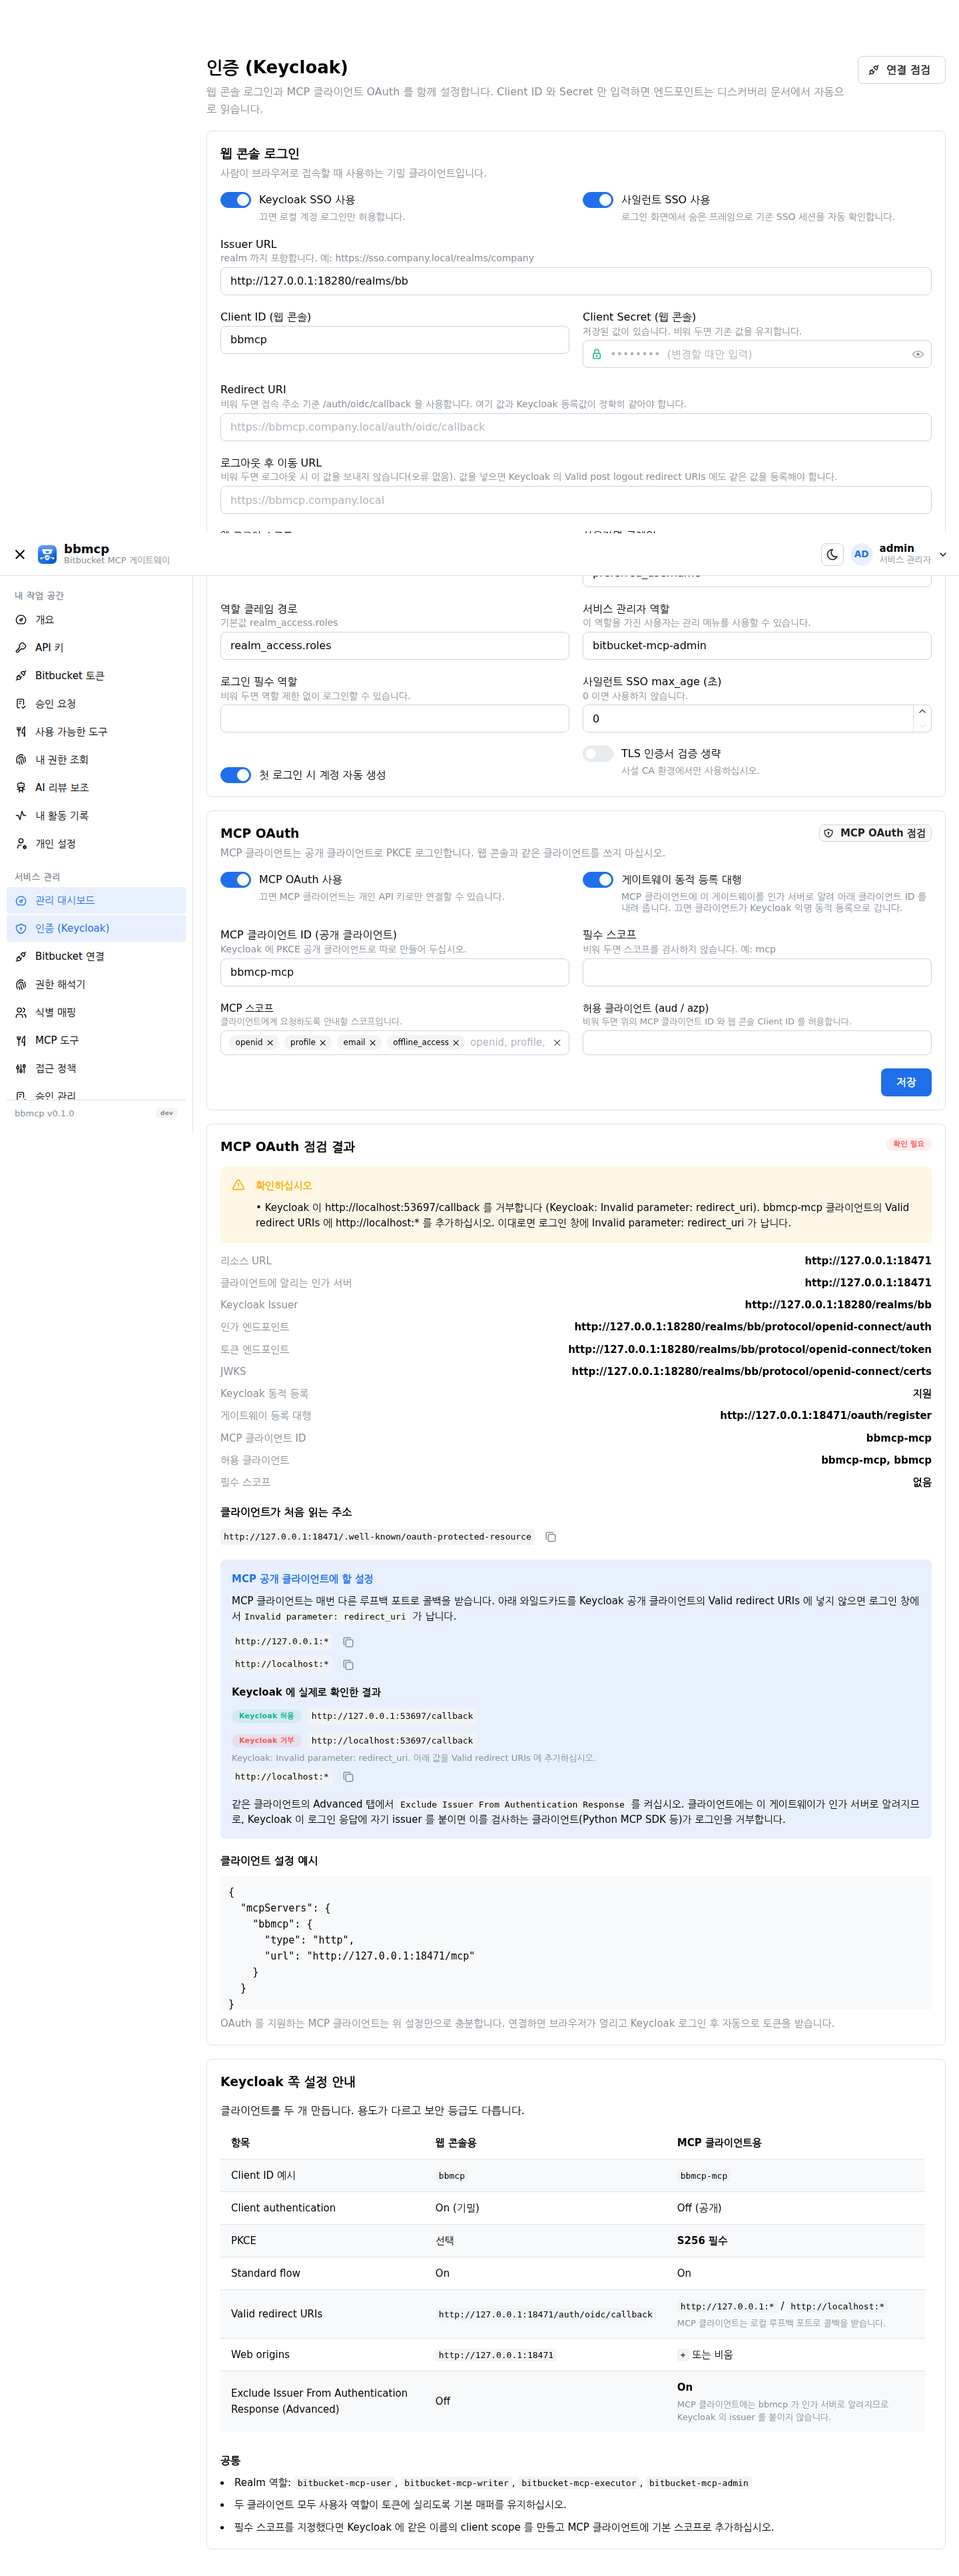
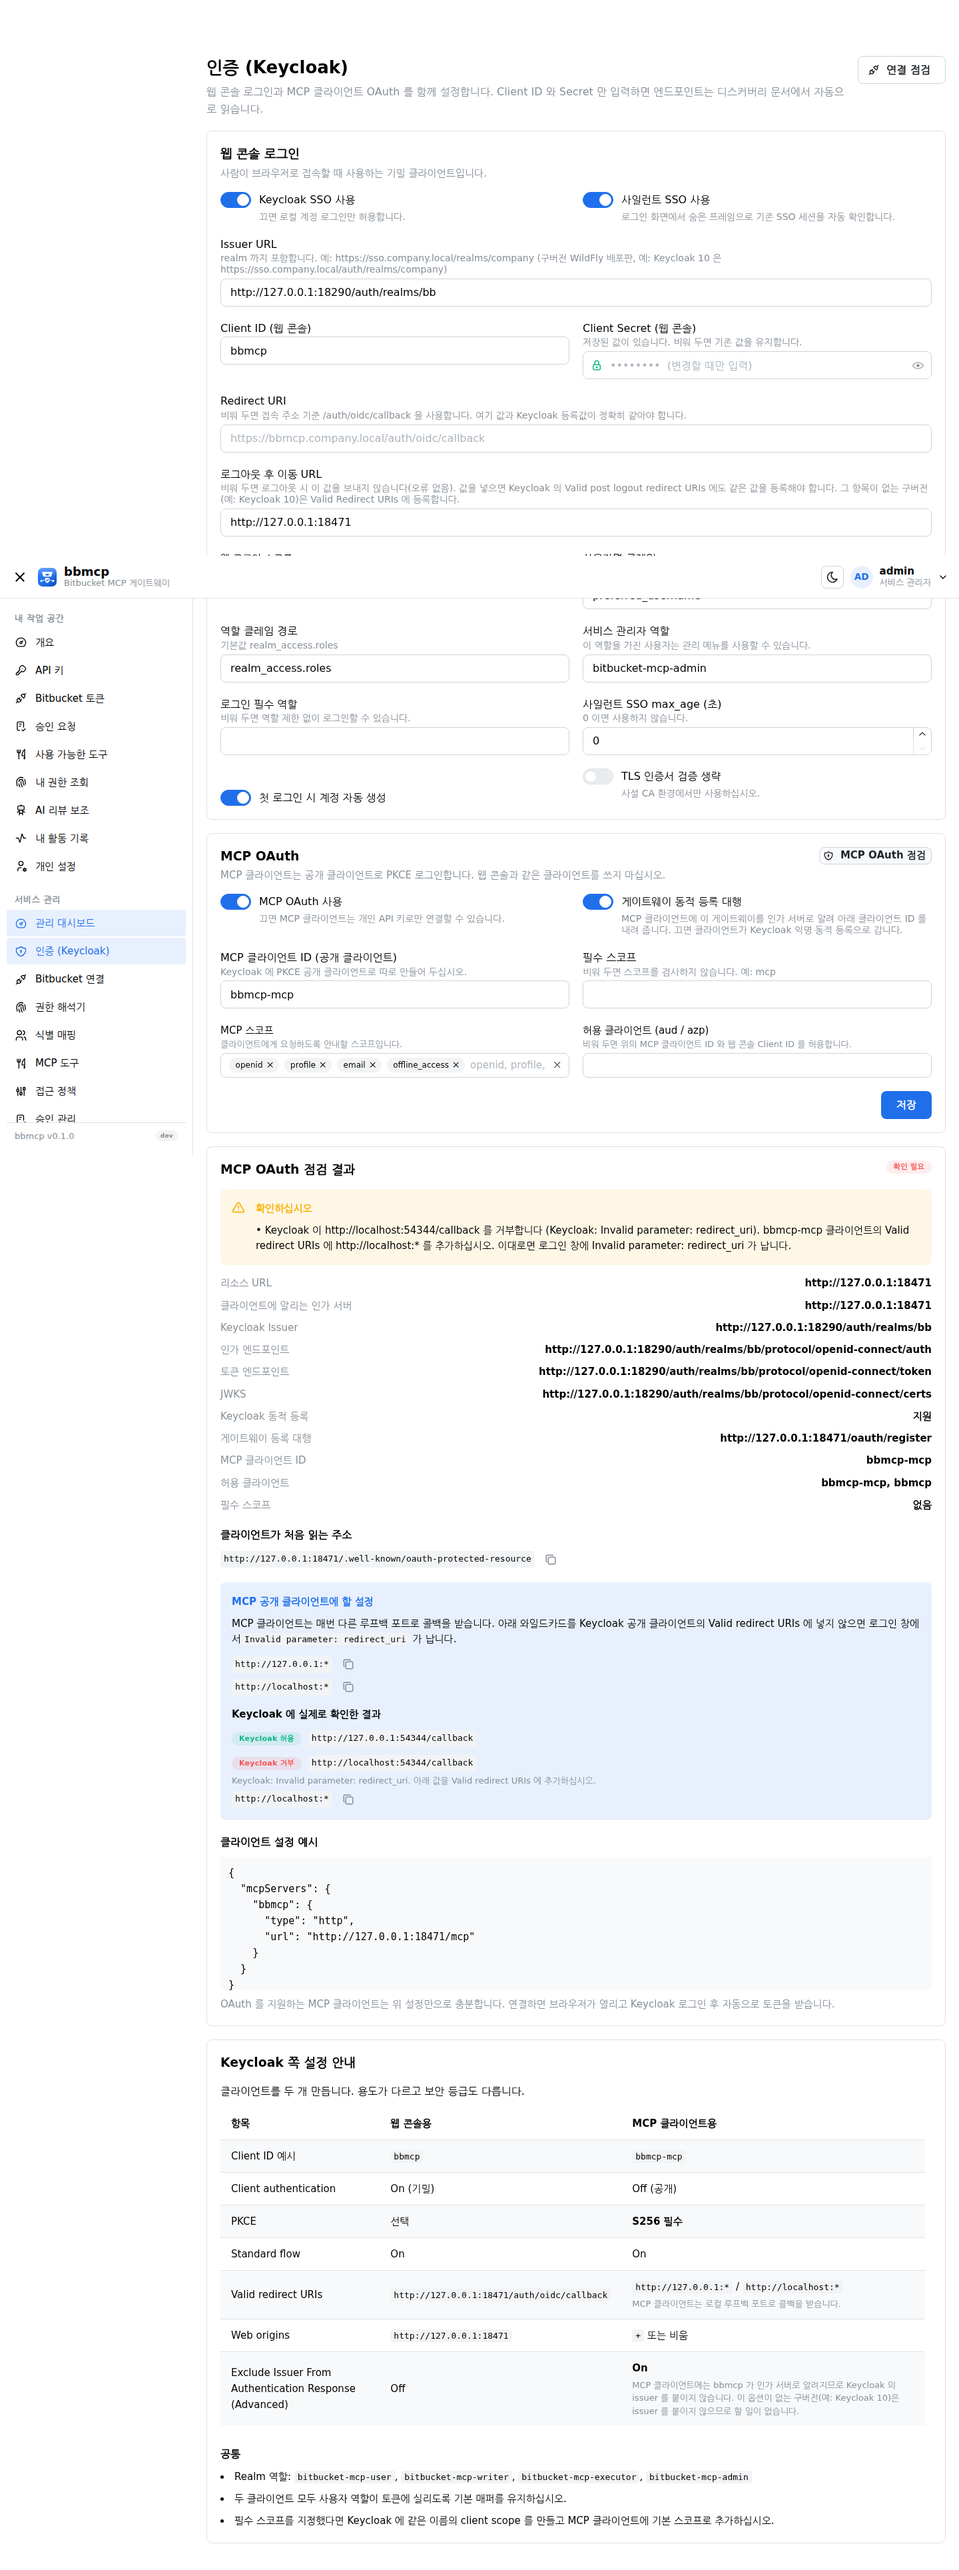
feat: Keycloak 10 호환
Keycloak 10.0.2(WildFly 배포판)를 실제로 띄워 웹 콘솔 로그인·사일런트
SSO·로그아웃과 MCP OAuth(실제 Claude Code, MCP TS SDK, Python MCP SDK)를
돌려 보았습니다. 핵심 흐름은 이미 동작했고, Keycloak 10 에서 어긋나는 곳만
고쳤습니다.

- 게이트웨이가 광고하는 인가 서버 메타데이터의
  token_endpoint_auth_methods_supported 에 "none" 을 넣습니다. bbmcp 가
  내려 주는 MCP 클라이언트는 공개 클라이언트인데, Keycloak 10 은 공개
  클라이언트를 받으면서도 목록에 "none" 을 적지 않아, 이 목록에서 방식을
  고르는 클라이언트는 받은 적 없는 비밀값이 필요한 방식을 고르게 됩니다.
  등록 대행을 끄고 Keycloak 을 그대로 광고할 때는 바꾸지 않습니다.
- Keycloak 10 에 없는 설정을 하라고 안내하지 않습니다. "Exclude Issuer From
  Authentication Response" 안내는 Keycloak 이 실제로 iss 를 붙이는 것이
  확인될 때만 보입니다(Keycloak 10 은 붙이지 않습니다). 로그아웃 후 이동
  주소는 "Valid post logout redirect URIs" 가 없는 구버전에서 Valid Redirect
  URIs 로 검사된다고 콘솔·점검 경고·문서에 적었습니다.
- Issuer 입력 안내와 관리자 가이드에 구버전의 /auth 경로, 구버전 관리
  콘솔의 항목 이름(Access Type, Advanced Settings 의 PKCE)을 적었습니다.

Keycloak 10 모양의 가짜 서버(/auth 경로, OIDC 디스커버리만, "none" 없음,
iss 없음)로 메타데이터 미러와 MCP 점검, 등록을 시험합니다. "none" 추가를
빼면 시험이 실패합니다. 같은 검증을 Keycloak 26.4 에도 다시 돌려 둘 다
통과했습니다.

diff --git a/docs/guide-admin.html b/docs/guide-admin.html
@@ -167,6 +167,19 @@ curl -fsS http://localhost:8080/readyz   # 구성 전에는 503 이 정상입니
 
   <h2 id="keycloak">3. Keycloak 연동</h2>
 
+  <div class="note">
+    <p>
+      <strong>지원 버전.</strong> Keycloak 10 이상을 지원하며, 10.0.2 와 26.4 에서 웹 콘솔 로그인·사일런트 SSO·로그아웃과
+      MCP OAuth(Claude Code, MCP TS SDK, Python MCP SDK)를 실제 로그인으로 검증했습니다. 구버전(WildFly 배포판, 예:
+      Keycloak 10)은 주소에 <code>/auth</code> 가 붙으므로 Issuer 를 <code>https://sso.company.local/auth/realms/company</code>
+      처럼 입력하십시오. 구버전 관리 콘솔은 항목 이름이 다릅니다: <em>Client authentication</em> 은 <em>Access Type</em>
+      (<code>confidential</code> / MCP 용은 <code>public</code>), PKCE 는 <em>Advanced Settings</em> 의
+      <em>Proof Key for Code Exchange Code Challenge Method</em> 입니다. <em>Valid post logout redirect URIs</em> 와
+      <em>Exclude Issuer From Authentication Response</em> 는 없습니다. 로그아웃 후 이동 주소는 <em>Valid Redirect URIs</em>
+      로 검사되고, issuer 는 원래 붙지 않습니다.
+    </p>
+  </div>
+
   <h3 id="keycloak-client">3.1 클라이언트 생성</h3>
   <p>Keycloak 관리 콘솔에서 아래와 같이 클라이언트를 만듭니다.</p>
   <div class="table-scroll">
@@ -179,7 +192,7 @@ curl -fsS http://localhost:8080/readyz   # 구성 전에는 503 이 정상입니
         <tr><td>Standard flow</td><td>Enabled</td></tr>
         <tr><td>Valid redirect URIs</td><td><code>https://&lt;bbmcp 주소&gt;/auth/oidc/callback</code></td></tr>
         <tr><td>Web origins</td><td><code>https://&lt;bbmcp 주소&gt;</code></td></tr>
-        <tr><td>Valid post logout redirect URIs</td><td><code>https://&lt;bbmcp 주소&gt;/*</code></td></tr>
+        <tr><td>Valid post logout redirect URIs<br><small>(구버전: Valid redirect URIs 에 함께 등록)</small></td><td><code>https://&lt;bbmcp 주소&gt;/*</code></td></tr>
       </tbody>
     </table>
   </div>
@@ -236,7 +249,7 @@ curl -fsS http://localhost:8080/readyz   # 구성 전에는 503 이 정상입니
             <td><code>https://&lt;bbmcp&gt;/auth/oidc/callback</code></td>
             <td><code>http://127.0.0.1:*</code>, <code>http://localhost:*</code></td></tr>
         <tr><td>Web origins</td><td><code>https://&lt;bbmcp&gt;</code></td><td><code>+</code> 또는 비움</td></tr>
-        <tr><td>Exclude Issuer From Authentication Response<br><small>(Advanced 탭)</small></td>
+        <tr><td>Exclude Issuer From Authentication Response<br><small>(Advanced 탭, 구버전에는 없음 — 설정 불필요)</small></td>
             <td>Off (기본값)</td><td><strong>On</strong></td></tr>
       </tbody>
     </table>
@@ -342,7 +355,7 @@ curl -fsS http://localhost:8080/readyz   # 구성 전에는 503 이 정상입니
         <tr>
           <td>로그아웃 시 <code>Invalid parameter</code></td>
           <td>등록되지 않은 <code>post_logout_redirect_uri</code> 전송</td>
-          <td>bbmcp 는 설정했을 때만 보냅니다. 값을 넣었다면 Keycloak 의 <em>Valid post logout redirect URIs</em> 에도 등록하십시오</td>
+          <td>bbmcp 는 설정했을 때만 보냅니다. 값을 넣었다면 Keycloak 의 <em>Valid post logout redirect URIs</em>(구버전은 <em>Valid redirect URIs</em>) 에도 등록하십시오</td>
         </tr>
         <tr>
           <td>MCP 클라이언트 로그인 창에서 <code>Invalid parameter: redirect_uri</code>, 또는 연결 시 <code>invalid_redirect_uri</code></td>

diff --git a/web/src/pages/admin/Auth.tsx b/web/src/pages/admin/Auth.tsx
@@ -35,7 +35,8 @@ const loginFields: Field<KeycloakSettings>[] = [
     kind: 'text',
     key: 'issuer',
     label: 'Issuer URL',
-    description: 'realm 까지 포함합니다. 예: https://sso.company.local/realms/company',
+    description:
+      'realm 까지 포함합니다. 예: https://sso.company.local/realms/company (구버전 WildFly 배포판, 예: Keycloak 10 은 https://sso.company.local/auth/realms/company)',
     placeholder: 'https://sso.company.local/realms/company',
     span: 12,
   },
@@ -54,7 +55,7 @@ const loginFields: Field<KeycloakSettings>[] = [
     key: 'postLogoutUrl',
     label: '로그아웃 후 이동 URL',
     description:
-      '비워 두면 로그아웃 시 이 값을 보내지 않습니다(오류 없음). 값을 넣으면 Keycloak 의 Valid post logout redirect URIs 에도 같은 값을 등록해야 합니다.',
+      '비워 두면 로그아웃 시 이 값을 보내지 않습니다(오류 없음). 값을 넣으면 Keycloak 의 Valid post logout redirect URIs 에도 같은 값을 등록해야 합니다. 그 항목이 없는 구버전(예: Keycloak 10)은 Valid Redirect URIs 에 등록합니다.',
     placeholder: 'https://bbmcp.company.local',
     span: 12,
   },
@@ -263,7 +264,8 @@ export function AdminAuthPage() {
                 <Table.Td>
                   <strong>On</strong>
                   <Text size="xs" c="dimmed" mt={4}>
-                    MCP 클라이언트에는 bbmcp 가 인가 서버로 알려지므로 Keycloak 의 issuer 를 붙이지 않습니다.
+                    MCP 클라이언트에는 bbmcp 가 인가 서버로 알려지므로 Keycloak 의 issuer 를 붙이지 않습니다. 이
+                    옵션이 없는 구버전(예: Keycloak 10)은 issuer 를 붙이지 않으므로 할 일이 없습니다.
                   </Text>
                 </Table.Td>
               </Table.Tr>
@@ -353,7 +355,10 @@ function KeycloakReport({ report }: { report: KeycloakTestReport }) {
           </div>
           <div>
             <Text size="sm" fw={600} mb={4}>
-              Valid post logout redirect URIs
+              Valid post logout redirect URIs{' '}
+              <Text span size="xs" c="dimmed" fw={400}>
+                (이 항목이 없는 구버전 Keycloak 은 Valid Redirect URIs)
+              </Text>
             </Text>
             {report.register.validPostLogoutRedirectUris.length > 0 ? (
               report.register.validPostLogoutRedirectUris.map((uri) => <CopyField key={uri} value={uri} />)
@@ -445,7 +450,7 @@ function OAuthReport({ report }: { report: MCPOAuthReport }) {
               ))}
             </Stack>
           ) : null}
-          {report.gatewayRegistrationEndpoint ? (
+          {report.gatewayRegistrationEndpoint && report.redirectChecks?.some((check) => check.sendsIssuer) ? (
             <Text size="sm" mt="md">
               같은 클라이언트의 Advanced 탭에서 <Code>Exclude Issuer From Authentication Response</Code> 를
               켜십시오. 클라이언트에는 이 게이트웨이가 인가 서버로 알려지므로, Keycloak 이 로그인 응답에

diff --git a/internal/api/oauth_test.go b/internal/api/oauth_test.go
@@ -724,3 +724,103 @@ func TestKeycloakMessageReadsErrorPage(t *testing.T) {
 		t.Errorf("keycloakMessage = %q", got)
 	}
 }
+
+// fakeKeycloak10 answers the way Keycloak 10 (WildFly) does: the realm lives
+// under /auth, only the OpenID Connect discovery path is served,
+// token_endpoint_auth_methods_supported leaves out "none", and the
+// authorization response carries no iss.
+func fakeKeycloak10(t *testing.T) (*httptest.Server, string) {
+	t.Helper()
+	var issuer string
+	mux := http.NewServeMux()
+	mux.HandleFunc("/auth/realms/bb/.well-known/openid-configuration", func(w http.ResponseWriter, r *http.Request) {
+		w.Header().Set("Content-Type", "application/json")
+		_ = json.NewEncoder(w).Encode(map[string]any{
+			"issuer":                                issuer,
+			"authorization_endpoint":                issuer + "/protocol/openid-connect/auth",
+			"token_endpoint":                        issuer + "/protocol/openid-connect/token",
+			"jwks_uri":                              issuer + "/protocol/openid-connect/certs",
+			"registration_endpoint":                 issuer + "/clients-registrations/openid-connect",
+			"end_session_endpoint":                  issuer + "/protocol/openid-connect/logout",
+			"code_challenge_methods_supported":      []string{"plain", "S256"},
+			"response_types_supported":              []string{"code", "none", "id_token"},
+			"token_endpoint_auth_methods_supported": []string{"private_key_jwt", "client_secret_basic", "client_secret_post", "tls_client_auth", "client_secret_jwt"},
+		})
+	})
+	mux.HandleFunc("/auth/realms/bb/protocol/openid-connect/auth", func(w http.ResponseWriter, r *http.Request) {
+		q := r.URL.Query()
+		http.Redirect(w, r, q.Get("redirect_uri")+"?error=login_required&state="+url.QueryEscape(q.Get("state")), http.StatusFound)
+	})
+	srv := httptest.NewServer(mux)
+	t.Cleanup(srv.Close)
+	issuer = srv.URL + "/auth/realms/bb"
+	return srv, issuer
+}
+
+func TestKeycloak10MetadataIsMirroredForThePublicClient(t *testing.T) {
+	for _, proxy := range []bool{true, false} {
+		srv, store, ctx := newOAuthServer(t)
+		_, issuer := fakeKeycloak10(t)
+		configureKeycloak(t, store, ctx, func(kc *settings.Keycloak) {
+			kc.Issuer = issuer
+			kc.MCPAllowDCR = proxy
+		})
+
+		rec := httptest.NewRecorder()
+		srv.authorizationServerMetadata(rec,
+			httptest.NewRequest(http.MethodGet, "https://bbmcp.local/.well-known/oauth-authorization-server", nil))
+		if rec.Code != http.StatusOK {
+			t.Fatalf("proxy=%t: 상태 %d: %s", proxy, rec.Code, rec.Body.String())
+		}
+		body := decode(t, rec)
+		if body["authorization_endpoint"] != issuer+"/protocol/openid-connect/auth" {
+			t.Errorf("proxy=%t: authorization_endpoint = %v", proxy, body["authorization_endpoint"])
+		}
+		methods := []string{}
+		for _, m := range body["token_endpoint_auth_methods_supported"].([]any) {
+			methods = append(methods, m.(string))
+		}
+		if proxy {
+			// The gateway hands out a public client, so "none" has to be listed,
+			// and Keycloak's own methods are kept.
+			if !containsFold(methods, "none") || !containsFold(methods, "client_secret_basic") {
+				t.Errorf("token_endpoint_auth_methods_supported = %v", methods)
+			}
+			if body["issuer"] != "https://bbmcp.local" {
+				t.Errorf("issuer = %v", body["issuer"])
+			}
+		} else if containsFold(methods, "none") || body["issuer"] != issuer {
+			t.Errorf("Keycloak 을 그대로 광고할 때는 바꾸지 않아야 합니다: issuer=%v methods=%v", body["issuer"], methods)
+		}
+	}
+}
+
+func TestMCPOAuthDiagnosticOnKeycloak10(t *testing.T) {
+	srv, store, ctx := newOAuthServer(t)
+	_, issuer := fakeKeycloak10(t)
+	configureKeycloak(t, store, ctx, func(kc *settings.Keycloak) { kc.Issuer = issuer })
+
+	rec := httptest.NewRecorder()
+	srv.testMCPOAuth(rec, httptest.NewRequest(http.MethodPost, "https://bbmcp.local/api/admin/test/mcp-oauth", nil))
+	body := decode(t, rec)
+	if body["ok"] != true {
+		t.Fatalf("ok = %v (%s)", body["ok"], rec.Body.String())
+	}
+	for _, c := range body["redirectChecks"].([]any) {
+		check := c.(map[string]any)
+		if check["accepted"] != true || check["sendsIssuer"] == true {
+			t.Errorf("redirectCheck = %v", check)
+		}
+	}
+	// Keycloak 10 has no "Exclude Issuer" option and needs none.
+	if warnings, _ := body["warnings"].([]any); len(warnings) != 0 {
+		t.Errorf("warnings = %v", warnings)
+	}
+
+	rec = httptest.NewRecorder()
+	srv.registerClient(rec, httptest.NewRequest(http.MethodPost, "https://bbmcp.local/oauth/register",
+		jsonBody(`{"redirect_uris":["http://localhost:58023/callback"]}`)))
+	if rec.Code != http.StatusCreated {
+		t.Fatalf("등록 상태 %d (%s)", rec.Code, rec.Body.String())
+	}
+}

diff --git a/internal/api/oauth.go b/internal/api/oauth.go
@@ -161,6 +161,11 @@ func (s *Server) authorizationServerMetadata(w http.ResponseWriter, r *http.Requ
 		// A client that can use a metadata document URL as its client_id would
 		// skip registration and reach Keycloak as a client this gateway rejects.
 		delete(out, "client_id_metadata_document_supported")
+		// The client handed out here is public. Older Keycloak (10, for one)
+		// accepts public clients at its token endpoint but does not list
+		// "none", and a client choosing from this list would then pick a
+		// method that needs a secret it was never given.
+		out["token_endpoint_auth_methods_supported"] = withNone(body["token_endpoint_auth_methods_supported"])
 	}
 	httpx.JSON(w, http.StatusOK, out)
 }
@@ -222,6 +227,23 @@ func (s *Server) fetchASMetadata(ctx context.Context, kc settings.Keycloak) (map
 		lastErr = errors.New("알 수 없는 오류")
 	}
 	return nil, fmt.Errorf("Keycloak 메타데이터를 가져올 수 없습니다: %w", lastErr)
+}
+
+// withNone returns a token_endpoint_auth_methods_supported list that
+// includes "none", keeping the methods Keycloak listed.
+func withNone(listed any) []string {
+	out := []string{}
+	if items, ok := listed.([]any); ok {
+		for _, item := range items {
+			if method, ok := item.(string); ok {
+				out = append(out, method)
+			}
+		}
+	}
+	if !containsFold(out, "none") {
+		out = append(out, "none")
+	}
+	return out
 }
 
 // keycloakHTTPClient is the client bbmcp uses for its own calls to Keycloak.

diff --git a/internal/api/admin.go b/internal/api/admin.go
@@ -708,7 +708,8 @@ func (s *Server) testTarget(w http.ResponseWriter, r *http.Request) {
 		}
 		if kc.PostLogoutURL == "" {
 			warnings = append(warnings, "로그아웃 후 이동 URL 이 비어 있어 로그아웃 시 Keycloak 화면에 머무릅니다. "+
-				"앱으로 돌아오게 하려면 값을 넣고 Keycloak 의 Valid post logout redirect URIs 에도 같은 값을 등록하십시오.")
+				"앱으로 돌아오게 하려면 값을 넣고 Keycloak 의 Valid post logout redirect URIs 에도 같은 값을 등록하십시오. "+
+				"이 항목이 없는 구버전 Keycloak(예: 10)은 Valid Redirect URIs 로 검사하므로 그쪽에 등록하십시오.")
 		}
 
 		cfg, _, err := s.Auth.OIDC.OAuth2Config(ctx, redirect)

diff --git a/README.md b/README.md
@@ -37,7 +37,7 @@ AI 에게 사용자가 볼 수 없는 저장소까지 노출합니다. bbmcp 는
 
 | 영역 | 내용 |
 |---|---|
-| 인증 | Keycloak OIDC, 사일런트 SSO(`prompt=none`), 로컬 계정 비상 로그인 |
+| 인증 | Keycloak OIDC (10 이상, 10.0.2·26.4 에서 실제 로그인으로 검증), 사일런트 SSO(`prompt=none`), 로컬 계정 비상 로그인 |
 | MCP OAuth | RFC 9728 보호 리소스 메타데이터, RFC 8414 인가 서버 메타데이터 미러, RFC 7591 등록 대행, aud/azp·스코프 검증 |
 | 식별 | 최초 1회 `preferred_username` 정확 일치 → 이후 `Keycloak sub ↔ Bitbucket user.id` 고정 |
 | 권한 | Bitbucket 권한 플러그인(권장) 또는 REST 폴백, fail-closed 기본 |
@@ -105,7 +105,7 @@ OAuth 를 지원하는 MCP 클라이언트는 URL 하나면 됩니다. 연결하
 
 Keycloak 에는 **공개 클라이언트**(기본값 `bbmcp-mcp`)를 하나 더 만들고 PKCE S256 과 루프백 리다이렉트
 `http://127.0.0.1:*`, `http://localhost:*` 를 **둘 다** 허용한 뒤 (Claude Code 는 `localhost` 로 콜백을 받습니다), Advanced 탭의 **Exclude Issuer From Authentication Response** 를
-켜십시오. bbmcp 는 클라이언트에 자기 자신을 인가 서버로 알리고 `/oauth/register` 로 그 클라이언트 ID 를
+켜십시오. 이 옵션이 없는 구버전(예: Keycloak 10)은 로그인 응답에 issuer 를 붙이지 않으므로 할 일이 없습니다. bbmcp 는 클라이언트에 자기 자신을 인가 서버로 알리고 `/oauth/register` 로 그 클라이언트 ID 를
 내려 줍니다. 로그인과 토큰 발급은 그대로 Keycloak 이 합니다. 클라이언트를 Keycloak 의 익명 동적 등록으로
 보내지 않으므로 `invalid_client_metadata`·Trusted Hosts 거부가 생기지 않습니다. 등록할 때 bbmcp 가 Keycloak 에
 클라이언트의 리다이렉트 URI 를 실제로 확인하므로, 빠진 값이 있으면 브라우저의 `Invalid parameter: redirect_uri`
